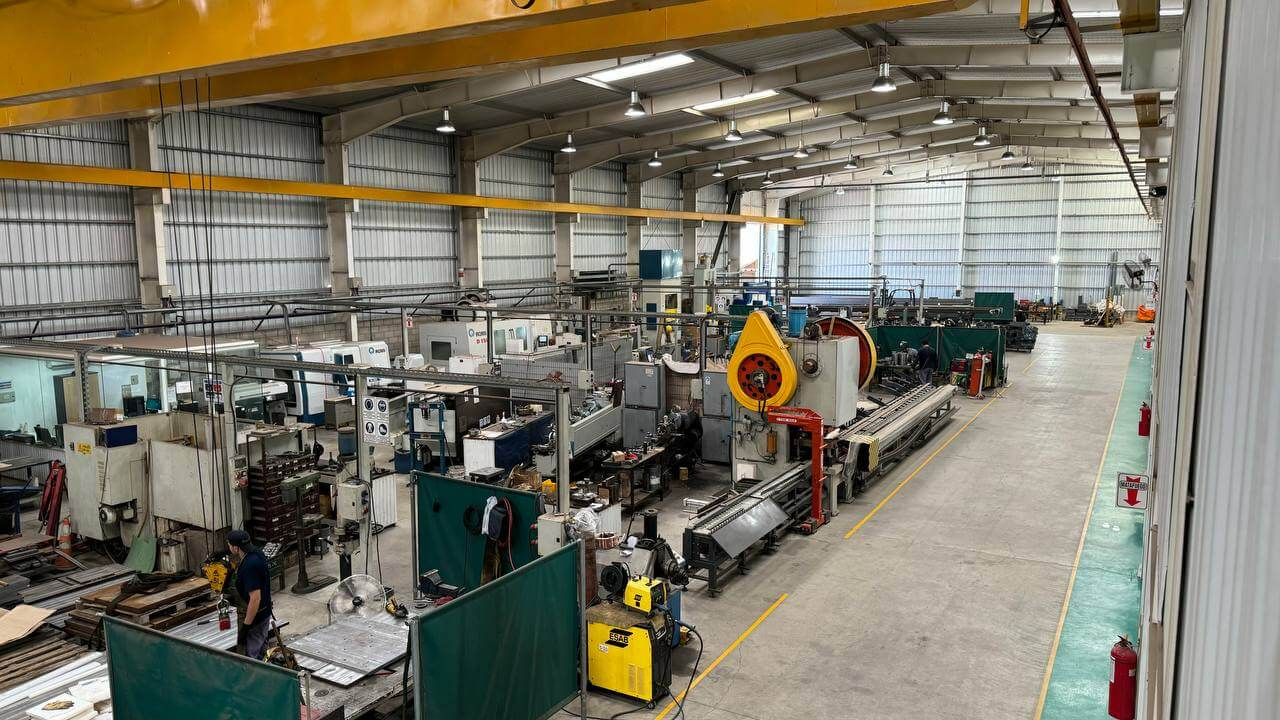
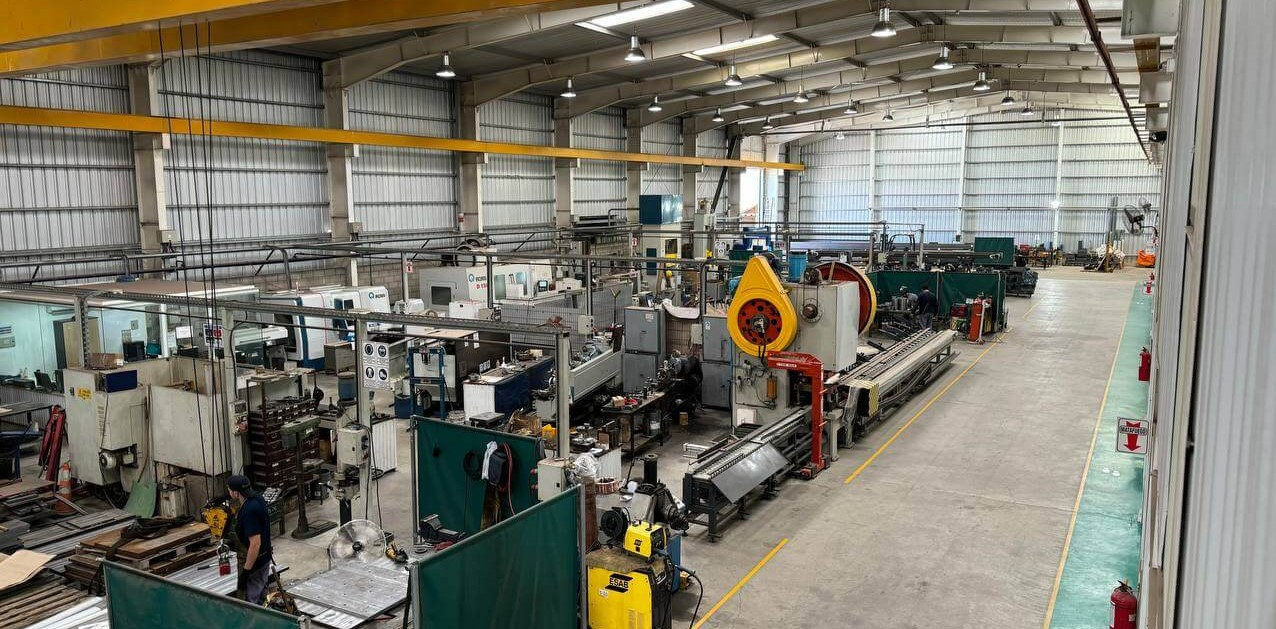
Change font-weight and photo scale

diff --git a/src/routes/OurHistory.jsx b/src/routes/OurHistory.jsx
@@ -12,7 +12,7 @@ export const OurHistory = ({  }) => {
         <>
         <section>
             <Banner img={producción_industrial} alt={"Taller Industrial"} text={"Nuestra Empresa"}/>
-            <p className="w-2/3 mx-auto text-center text-2xl font-normal my-28">El 20 de agosto de 2010 nace MSF TECH S.A. Desde sus inicios la empresa tiene como su objetivo principal brindar soluciones técnicamente avanzadas que respondan a los requerimientos del cliente.<br/><br/>
+            <p className="w-2/3 mx-auto text-center text-2xl my-28">El 20 de agosto de 2010 nace MSF TECH S.A. Desde sus inicios la empresa tiene como su objetivo principal brindar soluciones técnicamente avanzadas que respondan a los requerimientos del cliente.<br/><br/>
             Un hito fundamental es haber sido contratada en el año 2011 por INVAP S.E., para el desarrollo de proyectos ejecutivos pertenecientes al “Sistema de tratamiento de residuos no combustibles de la Central Nuclear Atucha II” con la fabricación del equipamiento y los sistemas de control individual y agrupados bajo un entorno SCADA –Win CC (Siemens.)</p>
             <article className="xlg:flex mb-10">
                 <img loading="lazy" className="rounded-tr-[100px] xlg:w-1/2 max-xlg:rounded-[0px] max-xlg:mx-auto" src={imgSecurity} alt="" />

diff --git a/src/routes/Home.jsx b/src/routes/Home.jsx
@@ -9,7 +9,7 @@ function Home() {
   return (
     <>
       <Banner img={img_empresa} alt={"Taller Industrial"} text={"Innovación en soluciones industriales"}/>
-      <p className="w-8/12 m-auto text-center text-2xl font-normal my-20">Somos una empresa de ingeniería que desarrolla proyectos llave en mano a sectores como el <span className=" font-semibold">nuclear, ferroviario, agrario, entre otras industrias.</span><br/><br/>
+      <p className="w-8/12 m-auto text-center font-semibold text-2xl my-20">Somos una empresa de ingeniería que desarrolla proyectos llave en mano a sectores como el <span className="font-black">nuclear, ferroviario, agrario, entre otras industrias.</span><br/><br/>
       Brindamos soluciones técnicamente avanzadas que responden a los requerimientos del cliente.<br/><br/>
       Nos dedicamos al diseño, fabricación, mantenimiento y asistencia técnica de ingeniería sobre procesos, máquinas especiales, dispositivos, piezas, equipos y matrices.
       </p>

diff --git a/src/components/Banner.jsx b/src/components/Banner.jsx
@@ -4,9 +4,9 @@ export const Banner = ({ img , alt , text }) => {
             <div className="w-1/4 bg-primaryBlue"></div><div className="bg-primaryOrange w-1/4"></div><div className="bg-primaryGreen w-1/4"></div><div className="bg-black w-1/4"></div>
         </div>
         <div className="relative flex justify-center items-center">
-            <img loading="lazy" className="w-full max-h-[26rem] min-h-[13rem] overflow-hidden" src={img} alt={alt} />
+            <img loading="lazy" className="w-full max-h-[29rem] min-h-[13rem] overflow-hidden" src={img} alt={alt} />
             <h2 className="z-20 absolute  mx-5 px-5 text-white textBorder text-center text-4xl lg:text-[4rem] lg:leading-[66px] font-bold font-sans bg-primaryBlue bg-opacity-60">{text}</h2>
-            <div className="absolute top-0 bottom-0 left-0 right-0 bg-black opacity-25"></div>
+            <div className="absolute top-0 bottom-0 left-0 right-0 bg-black opacity-10"></div>
         </div>
     </>
 )}

diff --git a/src/components/Service.jsx b/src/components/Service.jsx
@@ -46,7 +46,7 @@ export const Service = ({ imgService, imgAlt, tittle, textColor, bgColor, popUp1
                     <img loading="lazy" className="rounded-t-[42px] bg-cover h-full w-full" src={imgService} alt={imgAlt} />
                     <div className={`absolute inset-0 ${bgColor} opacity-0 group-hover:opacity-50 rounded-t-[42px]`}></div>
                 </div>
-                <h3 className="text-2xl ml-8 my-4 font-medium">Servicios para<br/><span className={`font-bold ${textColor}`}>{tittle}</span></h3>
+                <h3 className="text-2xl ml-8 my-4">Servicios para<br/><span className={`font-bold ${textColor}`}>{tittle}</span></h3>
                 <button className={`uppercase ml-8 text-xs bg-black ${bgColor} text-white py-2 px-4 rounded-2xl`}>Conoce más</button>
             </article>
         </div>

diff --git a/src/index.css b/src/index.css
@@ -13,6 +13,14 @@
     }
     body{
       font-family: 'Noto Sans JP', sans-serif;
+      font-weight: 700;
+    }
+
+    p span{
+      -webkit-text-stroke: 1px black
+    }
+    h3 span{
+      -webkit-text-stroke: 1px black
     }
     
     .slider{
@@ -114,12 +122,15 @@
     -webkit-text-stroke: 1px black;
   }
   .link {
-    @apply hover:font-bold duration-75 h-min m-auto uppercase text-lg whitespace-nowrap;
+    @apply font-semibold hover:scale-105 duration-75 h-min m-auto uppercase text-lg whitespace-nowrap;
+  }
+  .link:hover {
+    -webkit-text-stroke: 1px black
   }
   .linkDrop {
     @apply whitespace-nowrap hover:font-bold duration-75 w-11/12 m-auto py-1 uppercase text-lg;
   }
   .scaleX-100 {
-    transform: scaleX(1); /* Sin escalamiento en el eje X */
+    transform: scaleX(1);
   }
 }

diff --git a/src/routes/Contact.jsx b/src/routes/Contact.jsx
@@ -20,7 +20,7 @@ export const Contact = ({  }) => {
             </a>
         </div>
         <iframe className=" max-xs:w-10/12 m-auto w-full sm:h-80" src="https://www.google.com/maps/embed?pb=!1m14!1m8!1m3!1d13617.013068109176!2d-62.1213569!3d-31.4346938!3m2!1i1024!2i768!4f13.1!3m3!1m2!1s0x95cb282ffcdd8a35%3A0x16e70c1228aa22f9!2sMSF%20TECH%20SA!5e0!3m2!1sen!2sar!4v1698281007022!5m2!1sen!2sar"  allowfullscreen="" loading="lazy" referrerpolicy="no-referrer-when-downgrade"></iframe>
-        <p className="w-1/2 mx-auto text-center text-2xl font-normal mt-28">Si querés formar parte de nuestro equipo dejanos tus datos. </p>
+        <p className="w-1/2 mx-auto text-center text-2xl mt-28">Si querés formar parte de nuestro equipo dejanos tus datos. </p>
         <ContactForm/>
         </>
     )
